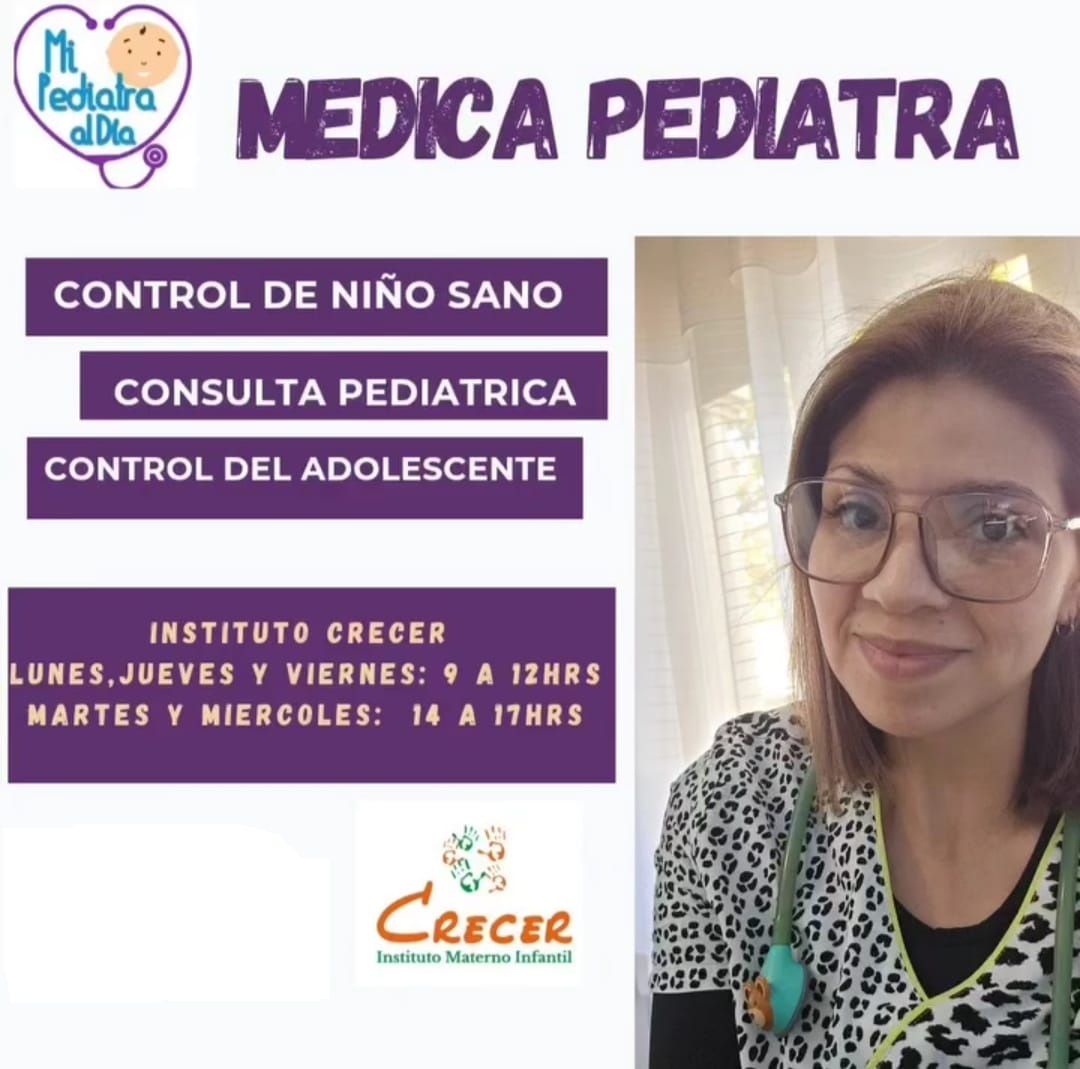
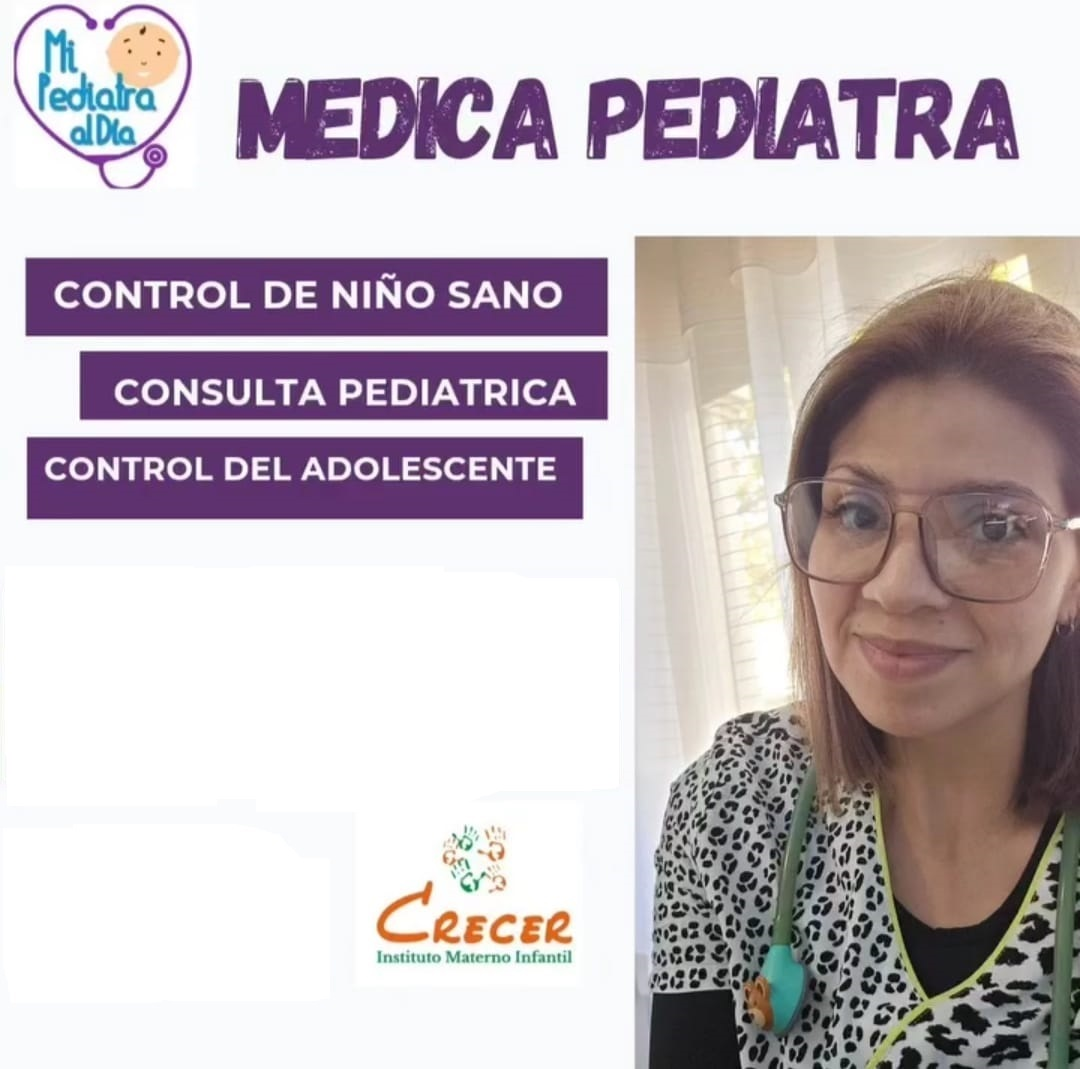
arreglos de forma

Changed region(s): [[0.0, 0.5248, 0.5806, 0.7409]]

diff --git a/src/app/components/appointment-create/appointment-create.ts b/src/app/components/appointment-create/appointment-create.ts
@@ -1,6 +1,7 @@
 import { Component } from '@angular/core';
 import { FormsModule } from '@angular/forms';
 import { AppointmentService } from '../../services/appointment.service';
+import { Router } from '@angular/router';
 
 @Component({
   selector: 'app-appointment',
@@ -27,7 +28,7 @@ export class Appointment {
     '14:00', '14:30', '15:00'
   ];
 
-  constructor(private appt: AppointmentService) {}
+  constructor(private appt: AppointmentService, private router: Router) {}
 
   selectTime(h: string) {
     this.time = h;
@@ -52,6 +53,7 @@ export class Appointment {
       return;
     }
 
+    
     try {
       await this.appt.createAppointment({
         patientName: this.patientName,
@@ -63,8 +65,10 @@ export class Appointment {
         time: this.time,
         reason: this.reason
       });
+      
+      alert('Turno agendado.');
 
-      alert('Turno creado');
+      this.router.navigate(['/index']);
 
     } catch (e) {
       console.error(e);

diff --git a/src/app/components/header/header.html b/src/app/components/header/header.html
@@ -12,10 +12,10 @@
 
         <div class="user">
             @if (user) {
-                <span>{{ user.displayName }}</span>
-                <button (click)="logout()">Logout</button>
+                <a routerLink="/user">{{ user.displayName }}</a>
+                <button (click)="logout()">Cerrar sesión</button>
             } @else {
-                <button (click)="google()">Login</button>
+                <button (click)="google()">Iniciar sesión</button>
             }
         </div>
     </nav>

diff --git a/src/app/app.ts b/src/app/app.ts
@@ -1,13 +1,12 @@
 import { Component } from '@angular/core';
-import { RouterOutlet, RouterLink } from '@angular/router';
+import { RouterOutlet } from '@angular/router';
 import { AuthService } from './services/auth.service';
 import { AppointmentService } from './services/appointment.service';
 import { Header } from './components/header/header';
 
 @Component({
   selector: 'app-root',
-  imports: [RouterOutlet, 
-    RouterLink,
+  imports: [RouterOutlet,
     Header],
   templateUrl: './app.html',
   styleUrl: './app.css'

diff --git a/src/index.html b/src/index.html
@@ -2,7 +2,7 @@
 <html lang="en">
 <head>
   <meta charset="utf-8">
-  <title>AppointmentsMedicalApp</title>
+  <title>Dra. Isi Lopez</title>
   <base href="/">
   <meta name="viewport" content="width=device-width, initial-scale=1">
   <link rel="icon" type="image/x-icon" href="favicon.ico">